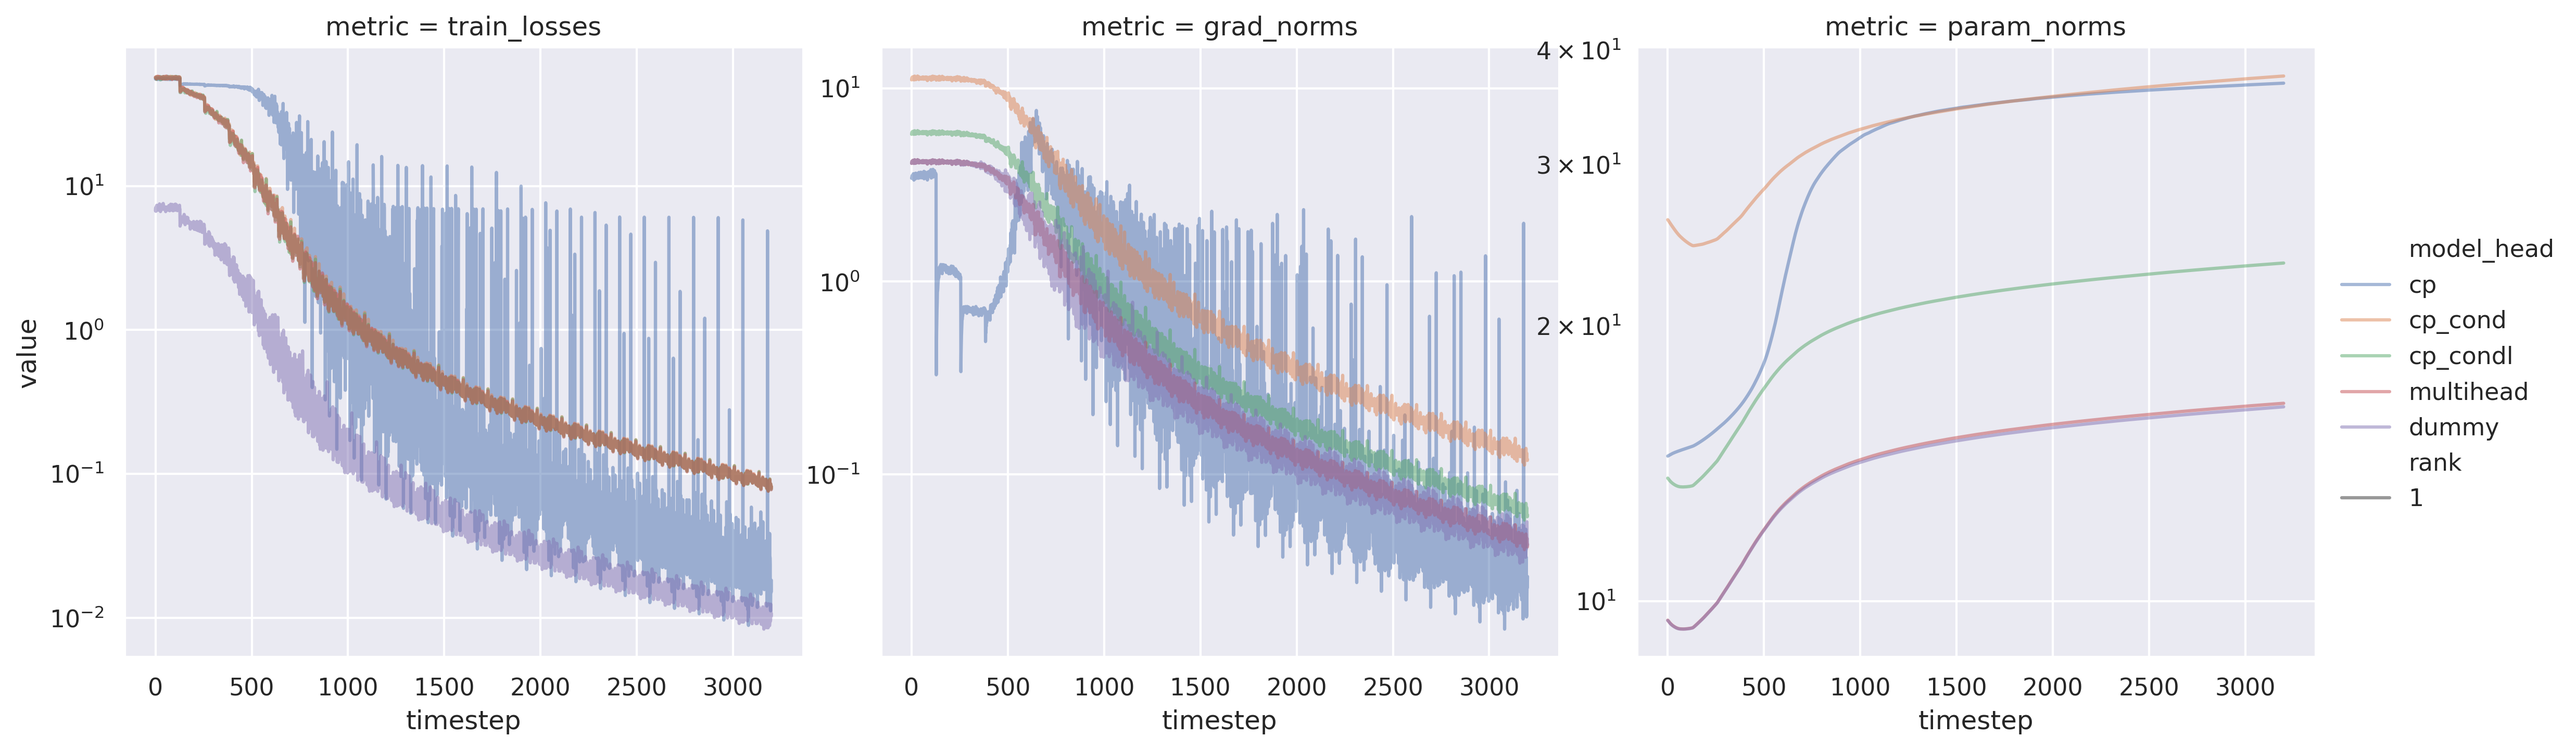
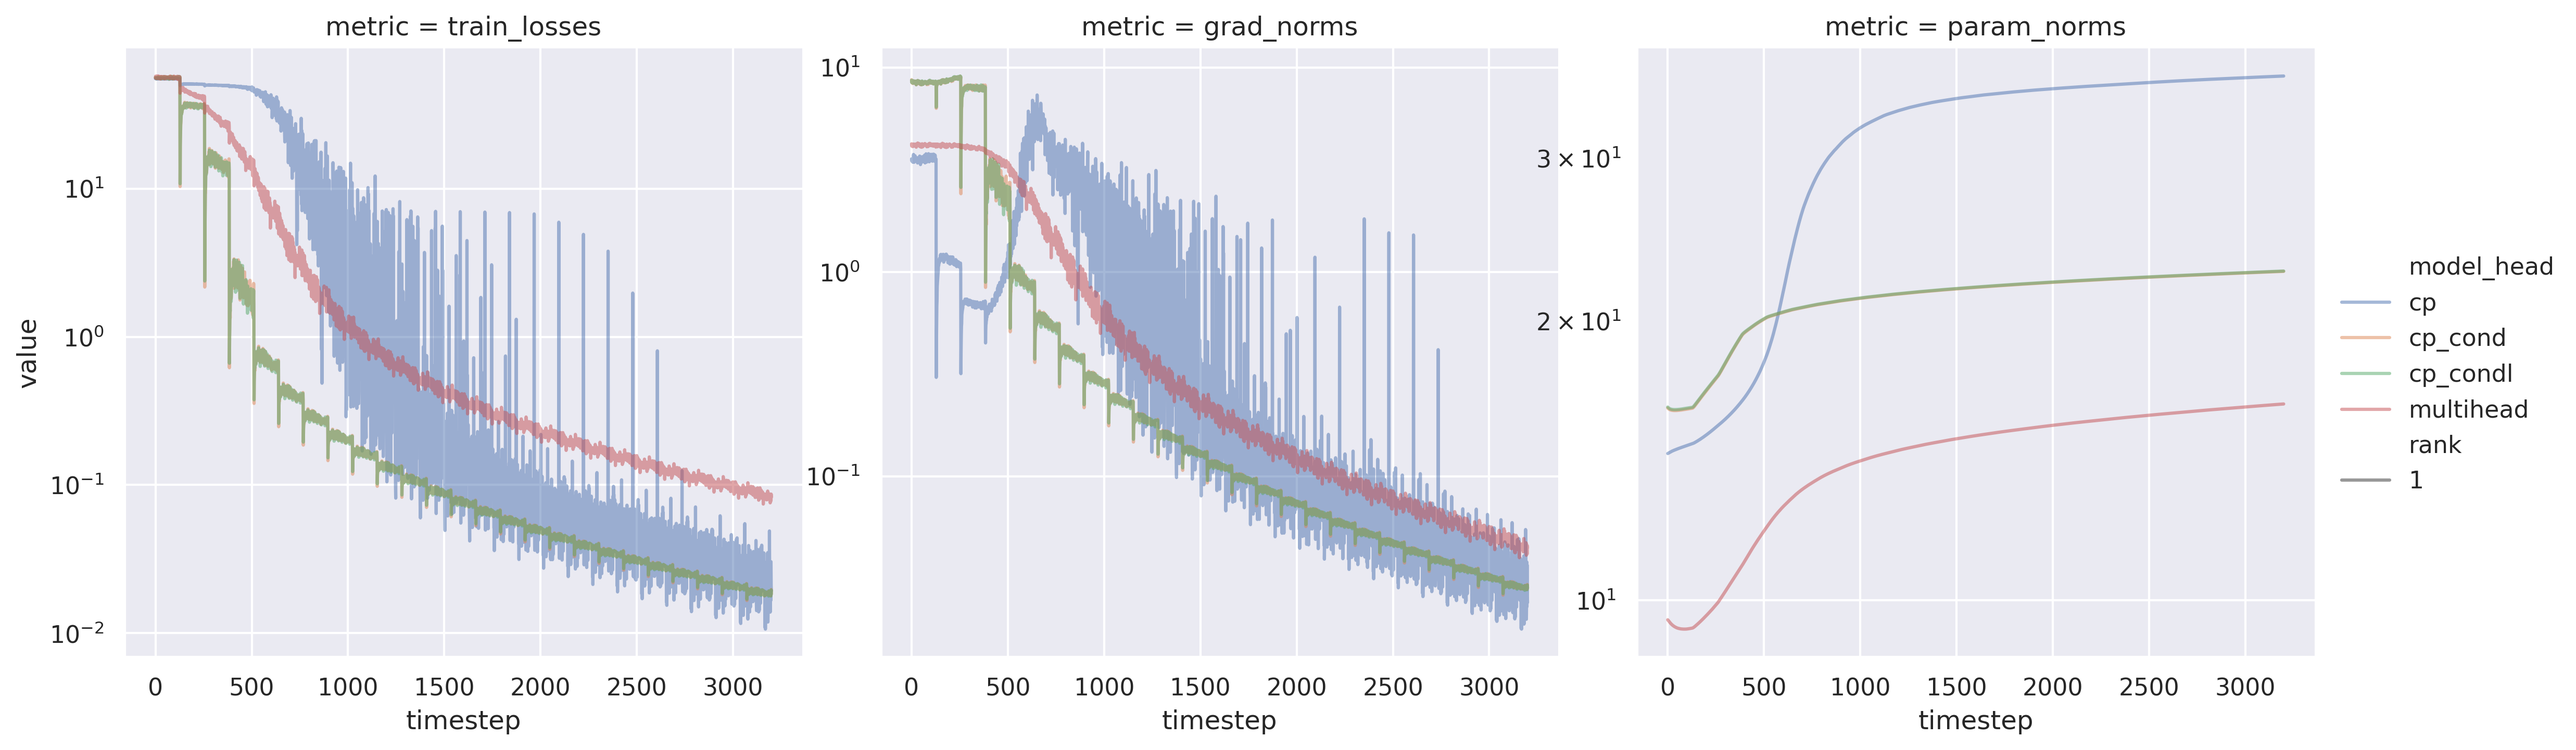
Bugfix: cp_condl decoder

diff --git a/tjdnet/distributions/cp_cond.py b/tjdnet/distributions/cp_cond.py
@@ -32,18 +32,45 @@ class CPCond(AbstractDist):
         )
 
         # === params
-        self.w_alpha = torch.nn.Linear(D, R, bias=False)
-        self.w_cp = torch.nn.Linear(D, R * H * V, bias=False)
+        self.w_alpha = torch.nn.Linear(D, R)
+        self.w_cp_fac = torch.nn.init.kaiming_uniform_(
+            torch.nn.Parameter(torch.empty(D, H, R, D))
+        )
+        self.decoder = torch.nn.init.kaiming_uniform_(
+            torch.nn.Parameter(torch.empty(D, V))
+        )
 
-        # factorized version
-        # self.w_cp = torch.nn.Linear(D, R * H * D, bias=False)
-        # self.decoder = torch.nn.Embedding(V, D)
+    def w_cp(self, x: torch.Tensor):
+        return torch.einsum("be,ehrd,dv->brhv", x, self.w_cp_fac, self.decoder)
 
     @classmethod
-    def from_pretrained(cls, linear: torch.nn.Linear, config: BaseDistConfig):
-        raise NotImplementedError(
-            "from_linear method must be implemented in the subclass"
+    def from_pretrained(cls, linear: torch.nn.Linear, config: BaseDistConfig, **kwargs):
+        """Create a CP distribution from a linear layer.
+
+        Args:
+            linear (torch.nn.Linear): Linear layer to use as a base. Shape: (D, V)
+            config (BaseDistFromLinearConfig): Configuration for the distribution.
+
+        Returns:
+            CPDist: CP distribution with the given configuration.
+        """
+
+        vocab_size, embedding_dim = linear.weight.shape
+
+        obj = cls(
+            config=BaseDistConfig(
+                vocab_size=vocab_size,
+                horizon=config.horizon,
+                rank=config.rank,
+                embedding_dim=embedding_dim,
+            ),
+            **kwargs,
         )
+
+        # Initialize the parameters in obj.tensor_param_net
+        # with the parameters from the linear layer
+        obj.decoder.weight.data = linear.weight.data  # type: ignore
+        return obj
 
     def prob_y_bar_x(
         self,

diff --git a/tjdnet/distributions/cp.py b/tjdnet/distributions/cp.py
@@ -20,32 +20,10 @@ class CPDist(TJDist):
         super().__init__(config)
 
     @classmethod
-    def from_pretrained(cls, linear: torch.nn.Linear, config: BaseDistConfig, **kwargs):
-        """Create a CP distribution from a linear layer.
-
-        Args:
-            linear (torch.nn.Linear): Linear layer to use as a base. Shape: (D, V)
-            config (BaseDistFromLinearConfig): Configuration for the distribution.
-
-        Returns:
-            CPDist: CP distribution with the given configuration.
-        """
-
-        vocab_size, hidden_dim = linear.weight.shape
-        obj = cls(
-            config=BaseDistConfig(
-                vocab_size=vocab_size,
-                horizon=config.horizon,
-                rank=config.rank,
-                embedding_dim=hidden_dim,
-            ),
-            **kwargs,
+    def from_pretrained(cls, linear: torch.nn.Linear, config: BaseDistConfig):
+        raise NotImplementedError(
+            "from_linear method must be implemented in the subclass"
         )
-
-        # Initialize the parameters in obj.tensor_param_net
-        # with the parameters from the linear layer
-        obj.param_func.decoder.weight.data = linear.weight.data  # type: ignore
-        return obj
 
     def get_params(self, x: torch.Tensor, **kwargs):
         B = x.size(0)

diff --git a/tjdnet/distributions/cp_condl.py b/tjdnet/distributions/cp_condl.py
@@ -32,12 +32,15 @@ class CPCondl(AbstractDist):
 
         # === params
         self.w_alpha = torch.nn.Linear(D, R)
-        self.w_cp_factor = torch.nn.Linear(D, H * R * D)
-        # self.decoder = torch.nn.init.kaiming_uniform_(
-        #     torch.nn.Parameter(torch.empty(D, V))
-        # )
-        self.decoder = torch.nn.Linear(D, V, bias=False)
-        self.w_cp = torch.nn.Sequential(self.w_cp_factor, self.decoder)
+        self.w_cp_fac = torch.nn.init.kaiming_uniform_(
+            torch.nn.Parameter(torch.empty(D, H, R, D))
+        )
+        self.decoder = torch.nn.init.kaiming_uniform_(
+            torch.nn.Parameter(torch.empty(D, V))
+        )
+
+    def w_cp(self, x: torch.Tensor):
+        return torch.einsum("be,ehrd,dv->brhv", x, self.w_cp_fac, self.decoder)
 
     @classmethod
     def from_pretrained(cls, linear: torch.nn.Linear, config: BaseDistConfig, **kwargs):

diff --git a/tjdnet/models/tjdsimple.py b/tjdnet/models/tjdsimple.py
@@ -90,7 +90,7 @@ class TJDSimple(nn.Module):
             )
             # set decoder requires_grad to False
             if hasattr(self.dist_head, "decoder"):
-                for param in self.dist_head.decoder.parameters():
+                for param in self.dist_head.decoder.parameters():  # type: ignore
                     param.requires_grad = False
                 print("Dist head decoder frozen")
             print("Initialized dist head from pretrained")
@@ -219,7 +219,7 @@ class TJDSimple(nn.Module):
 
             total_loss = 0.0
             for h in range(H):
-                loss_i = self.dist_head.forward_partial(d, y, head_ids=[h]).mean()
+                loss_i = self.dist_head.forward_partial(d, y, head_ids=[h]).mean()  # type: ignore
                 loss_i.backward()
                 total_loss += loss_i.detach()
             z.backward(gradient=d.grad)

diff --git a/scripts/plot_mhead_stability.py b/scripts/plot_mhead_stability.py
@@ -92,14 +92,14 @@ def main():
         }
     )
 
-    # add dummy dist
-    configs.append(
-        {
-            "model_head": "dummy",
-            "model_head_kwargs": {**model_hparams},
-            "rank": 1,
-        }
-    )
+    # # add dummy dist
+    # configs.append(
+    #     {
+    #         "model_head": "dummy",
+    #         "model_head_kwargs": {**model_hparams},
+    #         "rank": 1,
+    #     }
+    # )
 
     # create synthetic data
     train_ds = torch.utils.data.TensorDataset(

diff --git a/scripts/plot_mhead_memory.py b/scripts/plot_mhead_memory.py
@@ -73,7 +73,7 @@ def main():
 
     kwargs = []
     for mode in ["init", "forward", "backward"]:
-        for head in ["cp", "cp_condl"]:
+        for head in ["cp", "cp_cond", "cp_condl"]:
             for hparam, max_exp in max_exps.items():
                 for i in range(max_exp):
                     kwargs.append(
